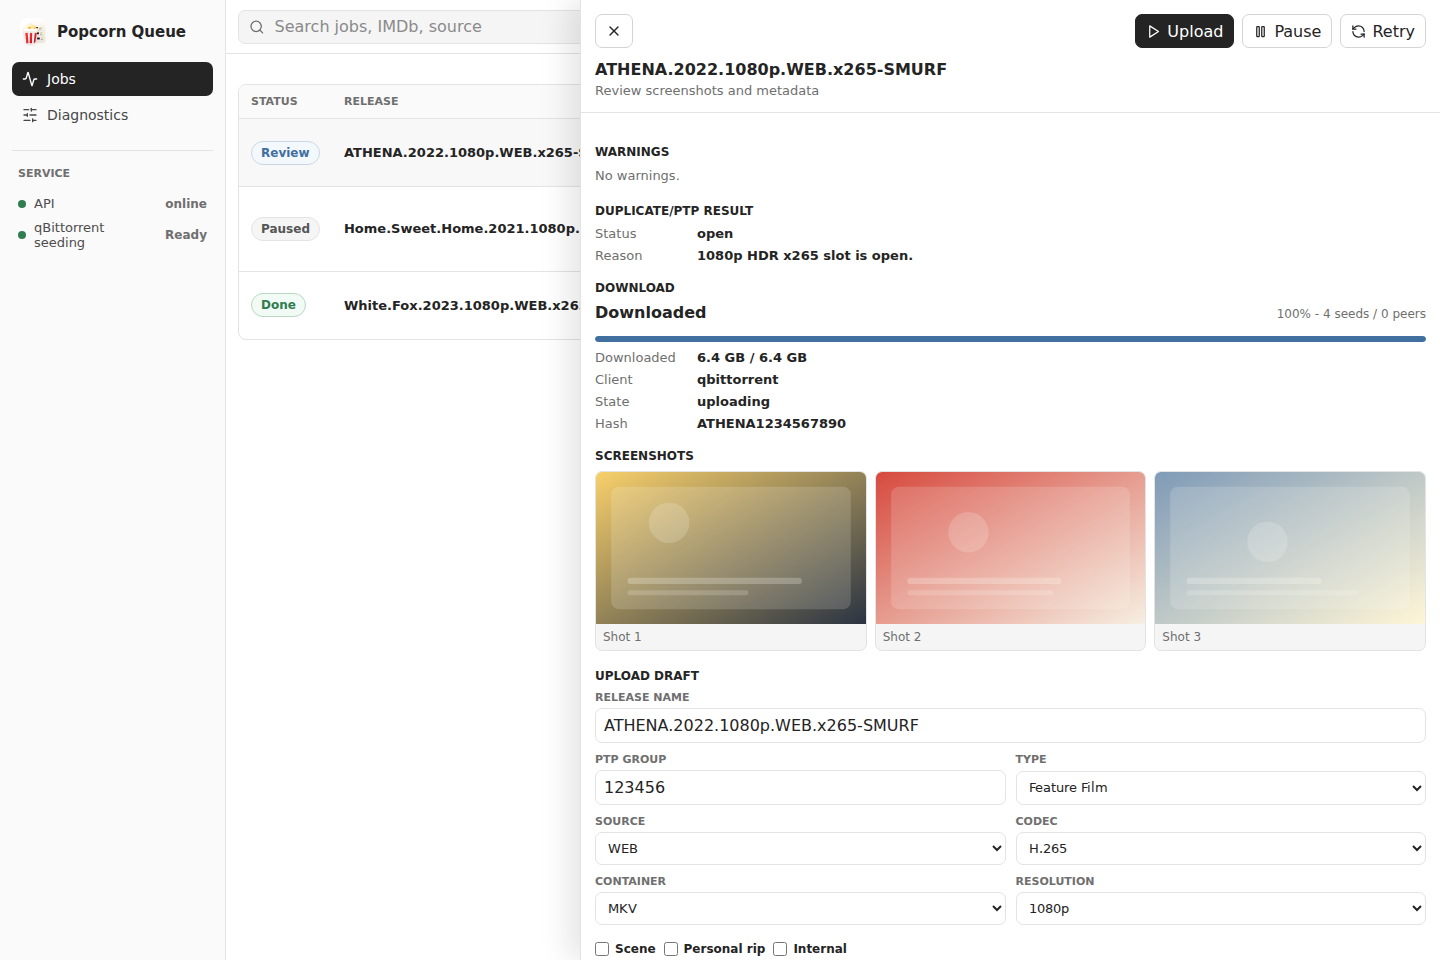
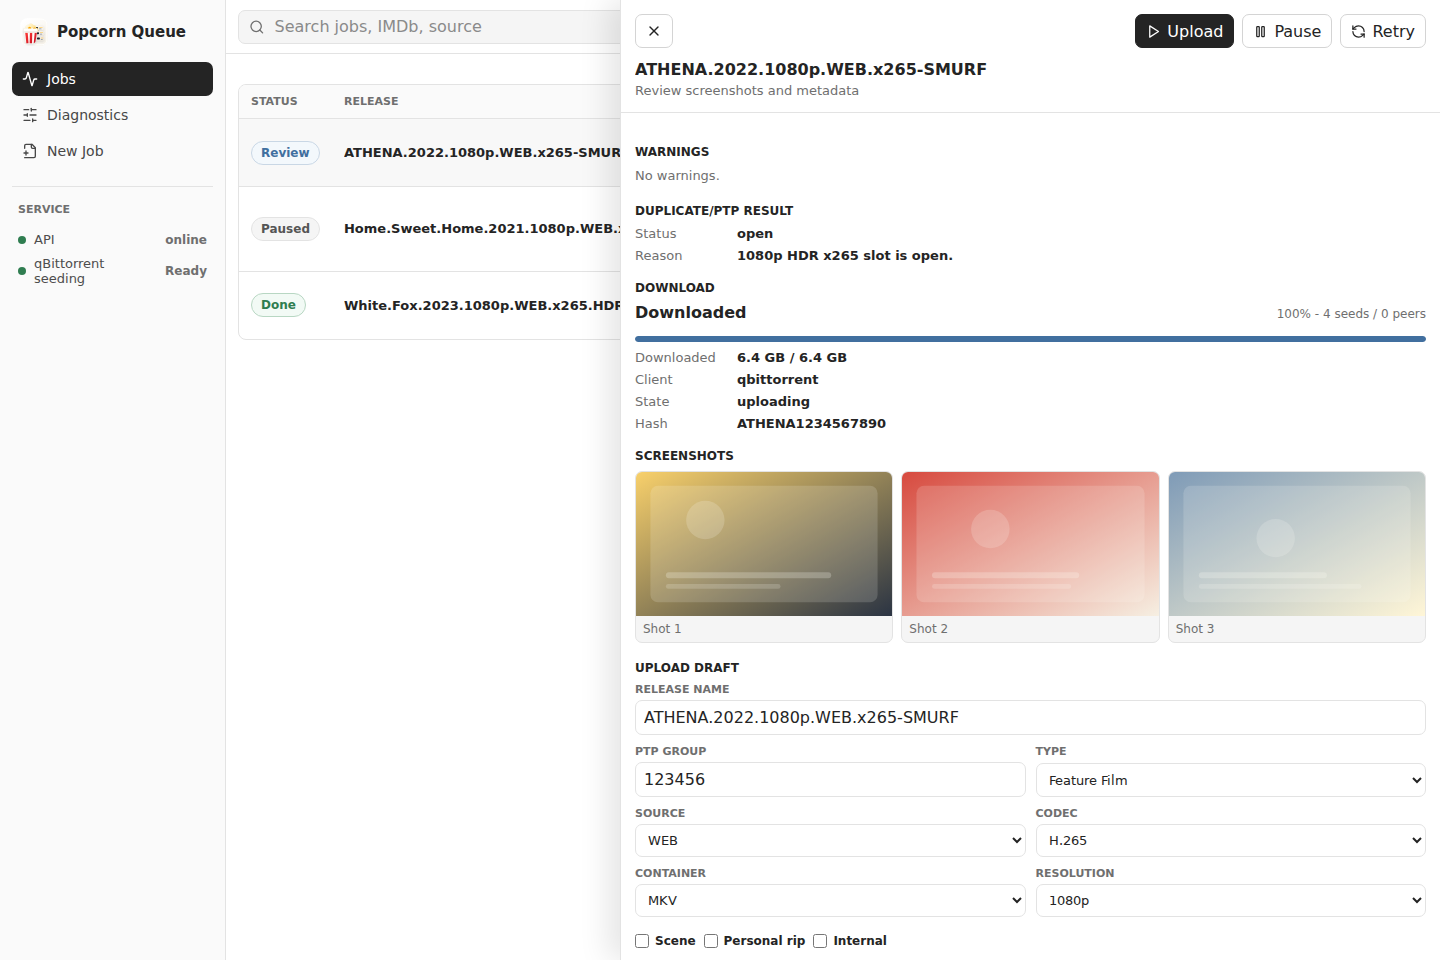
docs: prepare public readme

diff --git a/README.md b/README.md
@@ -1,7 +1,8 @@
 # Popcorn Queue
 
-Popcorn Queue is a TypeScript rewrite of the PTP upload workflow: a browser bridge,
-a PTP duplicate checker, a persistent upload queue, and a high-density web UI.
+Popcorn Queue is a TypeScript upload-preparation queue for PassThePopcorn workflows. It combines a browser bridge, duplicate checking, upload draft generation, screenshot and MediaInfo review, qBittorrent handoff, and a compact operator UI.
+
+The project is designed so automated tests run against mocks. Real PTP, image hosts, qBittorrent, ffmpeg, MediaInfo, mkvmerge, and tracker services are only used when you explicitly configure them for manual testing.
 
 ![Popcorn Queue social preview](docs/assets/social-preview.png)
 
@@ -13,46 +14,82 @@ a PTP duplicate checker, a persistent upload queue, and a high-density web UI.
 
 ![Diagnostics](docs/assets/screenshot-diagnostics.png)
 
-All code for this new project lives under this directory. The legacy
-`PtpUploader`, `ptp_checker`, and `Upload-Assistant` directories are reference-only.
+## Features
 
-## Apps
+- Browser bridge endpoint for source-site handoff
+- Manual job creation from a server media path or source torrent
+- PTP movie target search and manual PTP/IMDb target confirmation
+- Permanent API-side duplicate-check cache
+- Automated prepare-to-review pipeline
+- MediaInfo, screenshots, release draft, edition fields, subtitles, and trumpable review
+- Explicit upload action before PTP submission
+- qBittorrent progress and post-upload seeding handoff
+- Global diagnostics for API, PTP, image host, qBittorrent, and local media tools
+- File and job logs for operator visibility
 
-- `apps/api` exposes the browser bridge API, health checks, and job creation.
-- `apps/web` is the QUI-style operator UI.
-- `apps/worker` is the upload phase runner shell.
-- `apps/userscript/popcorn-queue-bridge.user.js` is the new userscript name for the
-  browser-side checker/uploader bridge.
+## Repository Layout
 
-## Packages
+- `apps/api` exposes the browser bridge API, job API, diagnostics, logs, and upload endpoints.
+- `apps/web` is the light, QUI-style operator interface.
+- `apps/worker` runs upload preparation phases.
+- `apps/userscript/popcorn-queue-bridge.user.js` is the browser-side bridge userscript.
+- `packages/core` contains shared types, release parsing, cache keys, and upload planning.
+- `packages/integrations` contains PTP, image host, and qBittorrent integration clients.
+- `docs` contains architecture, API, browser bridge, migration, and manual testing notes.
 
-- `packages/core` contains shared types, release parsing, PTP cache keys, and the
-  coexisting rule engine.
-- `packages/integrations` contains PTP API access and browser-check orchestration.
-
-## First Run
+## Quick Start
 
 ```bash
 npm install
+cp .env.example .env
 npm test
 npm run typecheck
-npm run test:e2e
-npm run screenshots
-npm run dev:web
+npm run test:e2e -- --project=chromium-desktop
 npm run dev:api
+npm run dev:web
 ```
 
-The repo includes a local `.env` for this remote server and an `.env.example`
-template. Automated tests use mocks and do not call PTP, TMDb, image hosts, or a
-torrent client. For manual browser testing, install
-`apps/userscript/popcorn-queue-bridge.user.js` in Tampermonkey and set the API
-URL, web URL, and browser token from the userscript menu.
+The default development ports are:
 
-The main UI prepares jobs up to review automatically. Review screenshots,
-MediaInfo/BDInfo, duplicate result, release draft, and torrent/qB readiness,
-then press `Start Upload`. Debug phase controls live under Diagnostics only.
+- API: `http://127.0.0.1:3500`
+- Web UI: `http://127.0.0.1:5173`
 
-Logs are available through:
+For remote development, set `POPCORN_QUEUE_HOST=0.0.0.0` and update `POPCORN_QUEUE_API_URL`, `POPCORN_QUEUE_WEB_URL`, `VITE_API_BASE_URL`, and `POPCORN_QUEUE_ALLOWED_ORIGINS` for your host.
+
+## Configuration
+
+Start from `.env.example`. Keep your real `.env` local; it is ignored by Git.
+
+Important settings:
+
+- `POPCORN_QUEUE_BROWSER_TOKEN`: shared token for browser bridge requests
+- `PTP_API_USER` and `PTP_API_KEY`: PTP API duplicate-check credentials
+- `PTP_USERNAME`, `PTP_PASSWORD`, and `PTP_COOKIE_FILE`: manual PTP upload login support
+- `PTP_ANNOUNCE_URL`: announce URL used when creating upload torrents
+- `IMGBB_API_KEY` or `PTPIMG_API_KEY`: optional image hosting
+- `QBITTORRENT_URL`, `QBITTORRENT_USERNAME`, `QBITTORRENT_PASSWORD`: qBittorrent integration
+- `POPCORN_QUEUE_RUN_EXTERNAL_TOOLS`: enables ffmpeg, MediaInfo, mkvmerge, and oxipng execution
+
+Automated tests do not require any of these real values.
+
+## Browser Bridge
+
+Install `apps/userscript/popcorn-queue-bridge.user.js` in a userscript manager such as Tampermonkey. Use the userscript menu to configure the API URL, web URL, and browser token from your local `.env`.
+
+The browser bridge can send source-site candidates and torrent files to the API. The web UI then prepares jobs for review.
+
+## Running the App
+
+Run the API and web UI in separate shells:
+
+```bash
+npm run dev:api
+npm run dev:web
+```
+
+Open the web UI, create or receive a job, review the upload draft, then press `Upload` when ready. The UI shows pending upload feedback while the API waits for PTP.
+
+## Logs
 
 ```bash
 npm run logs:api
@@ -60,6 +97,33 @@ npm run logs:worker
 npm run logs:job -- <jobId>
 ```
 
-Release screenshots are generated from mock data and do not call external
-services. Re-run `npm run screenshots` before refreshing README images or the
-GitHub social preview.
+Runtime logs are written under `logs/` and job logs under `data/jobs/<jobId>/logs/`. These paths are ignored by Git.
+
+## Tests
+
+```bash
+npm test
+npm run typecheck
+npm run test:e2e -- --project=chromium-desktop
+npm run audit:public
+```
+
+The test suite uses mocked external systems. Do not wire tests to real PTP, qBittorrent, image hosts, or trackers.
+
+## Screenshots and Social Preview
+
+Screenshots are generated from mock data:
+
+```bash
+npm run screenshots
+```
+
+The generated files live under `docs/assets/` and are safe to commit.
+
+## Safety Notes
+
+Do not commit `.env`, cookies, tracker passkeys, announce URLs, `.torrent` files, downloaded media, local databases, or runtime logs. Run `npm run audit:public` before publishing.
+
+## License
+
+MIT
